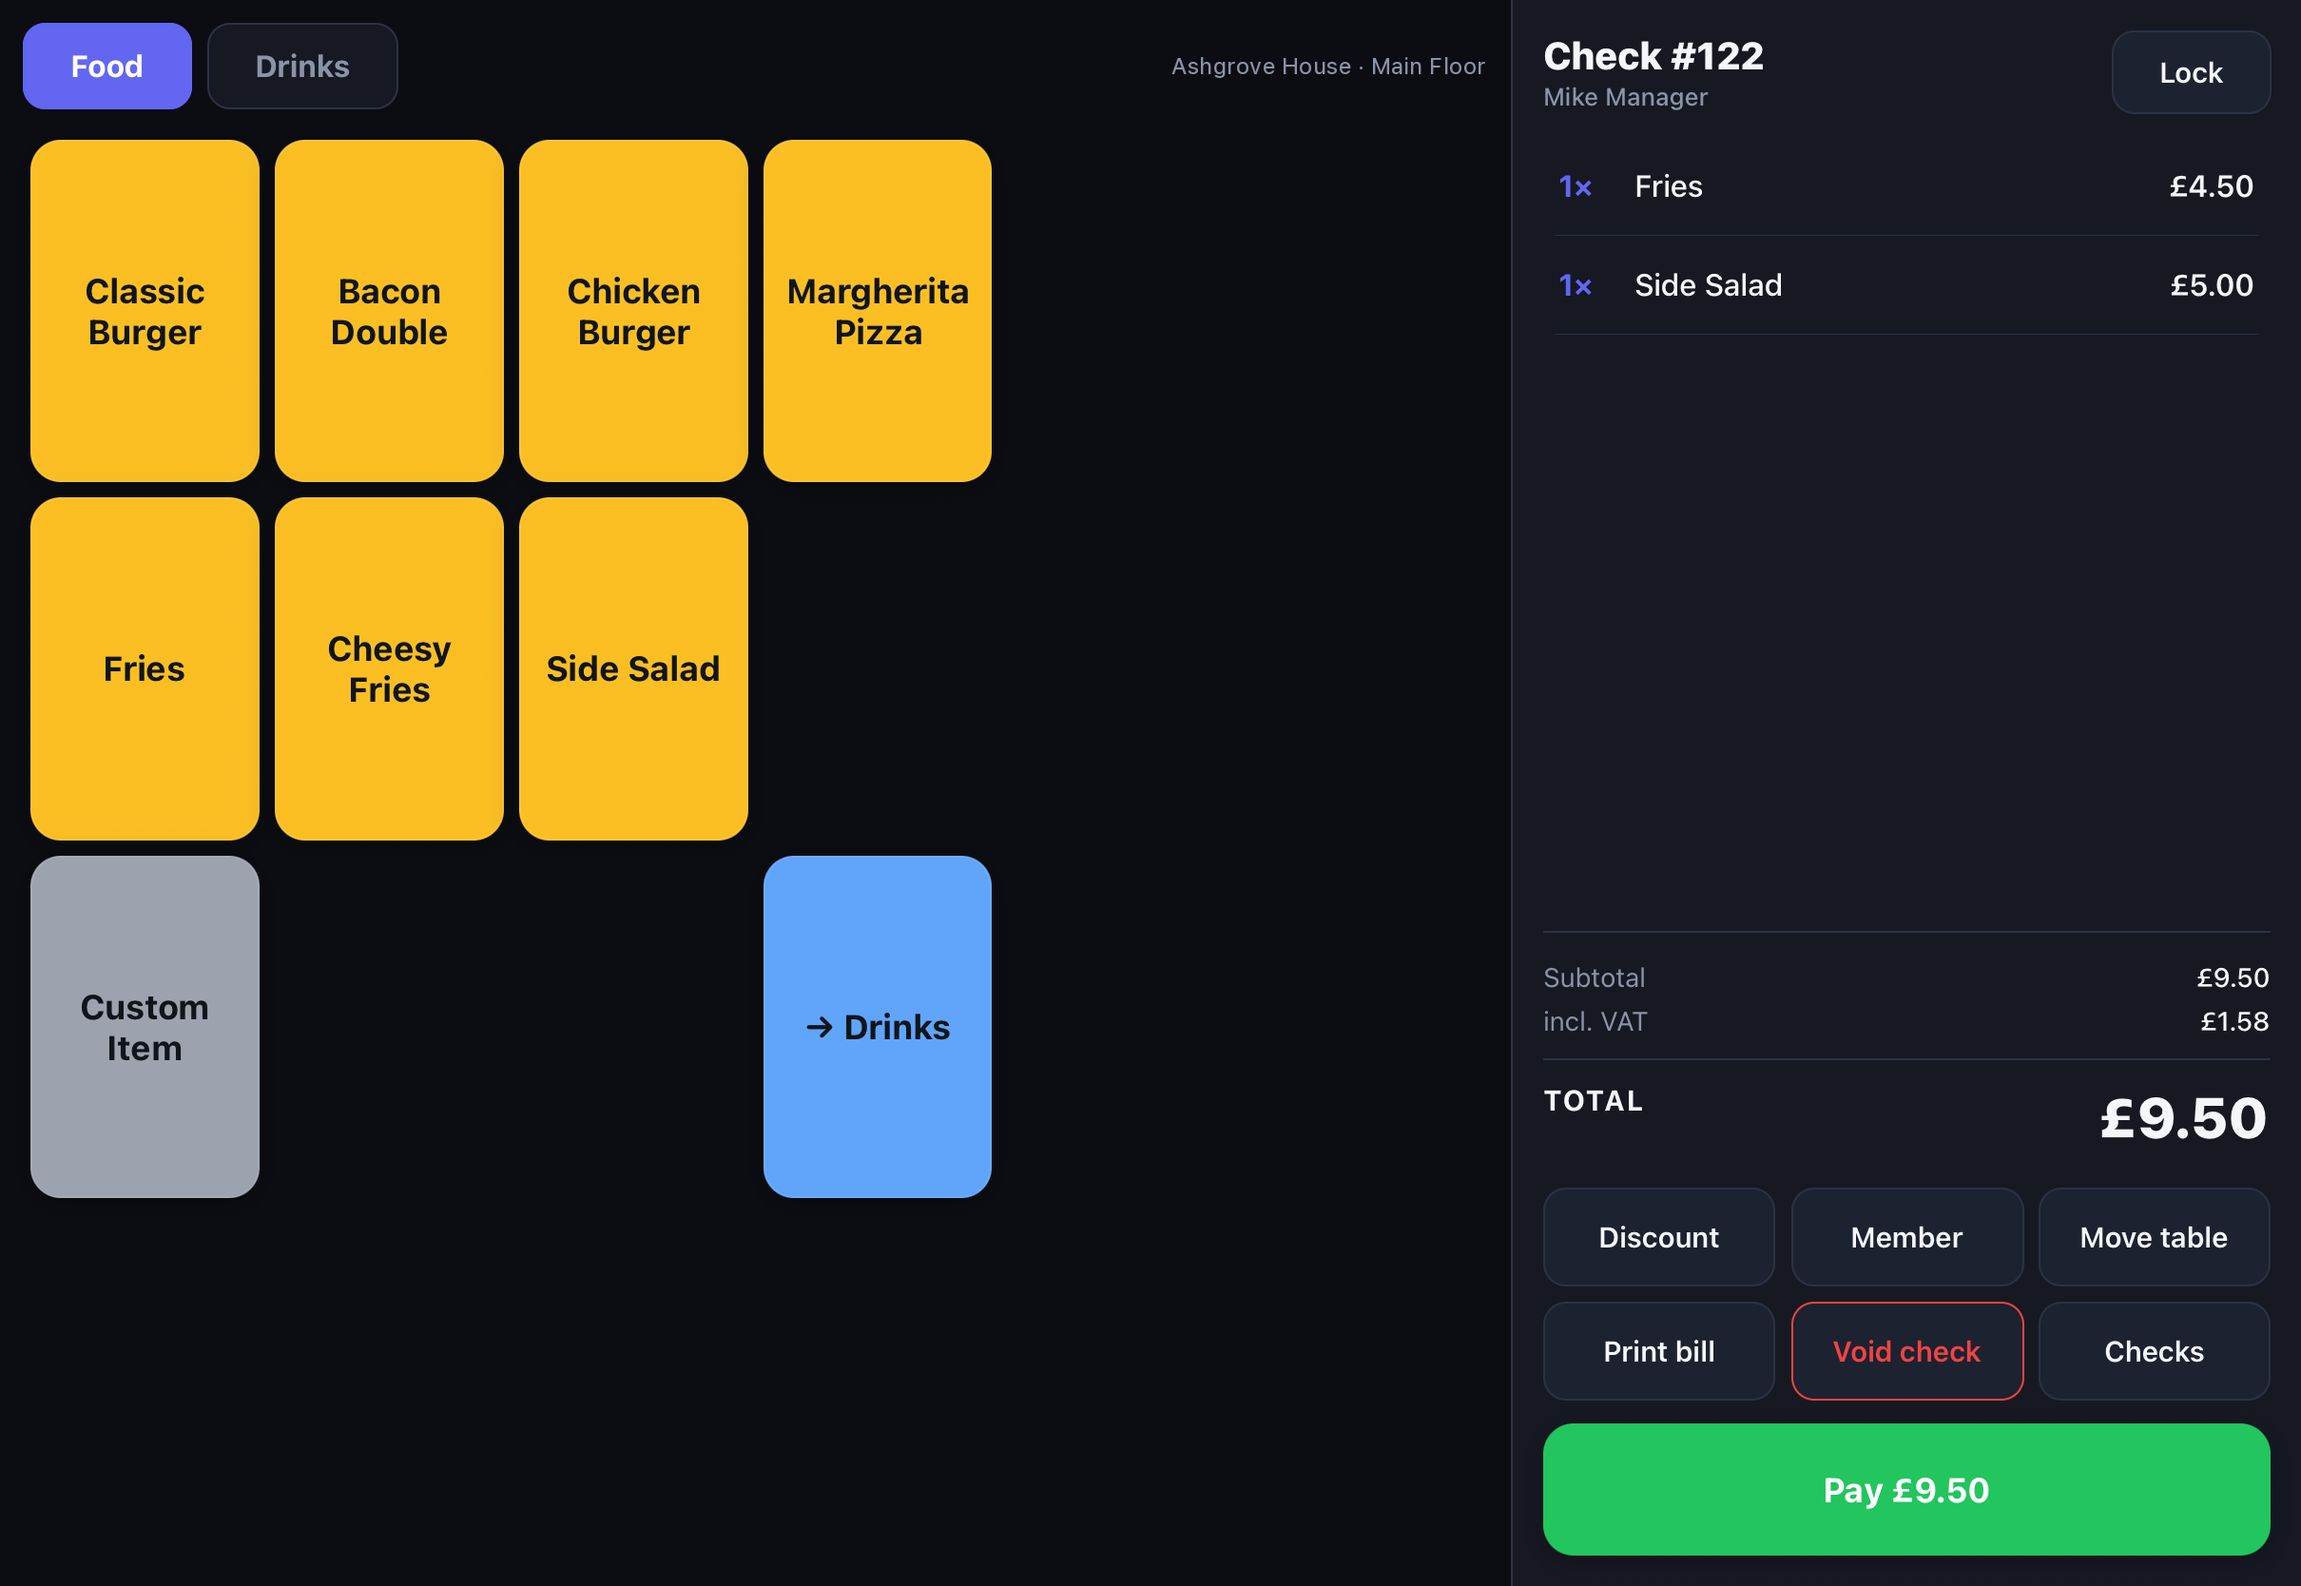
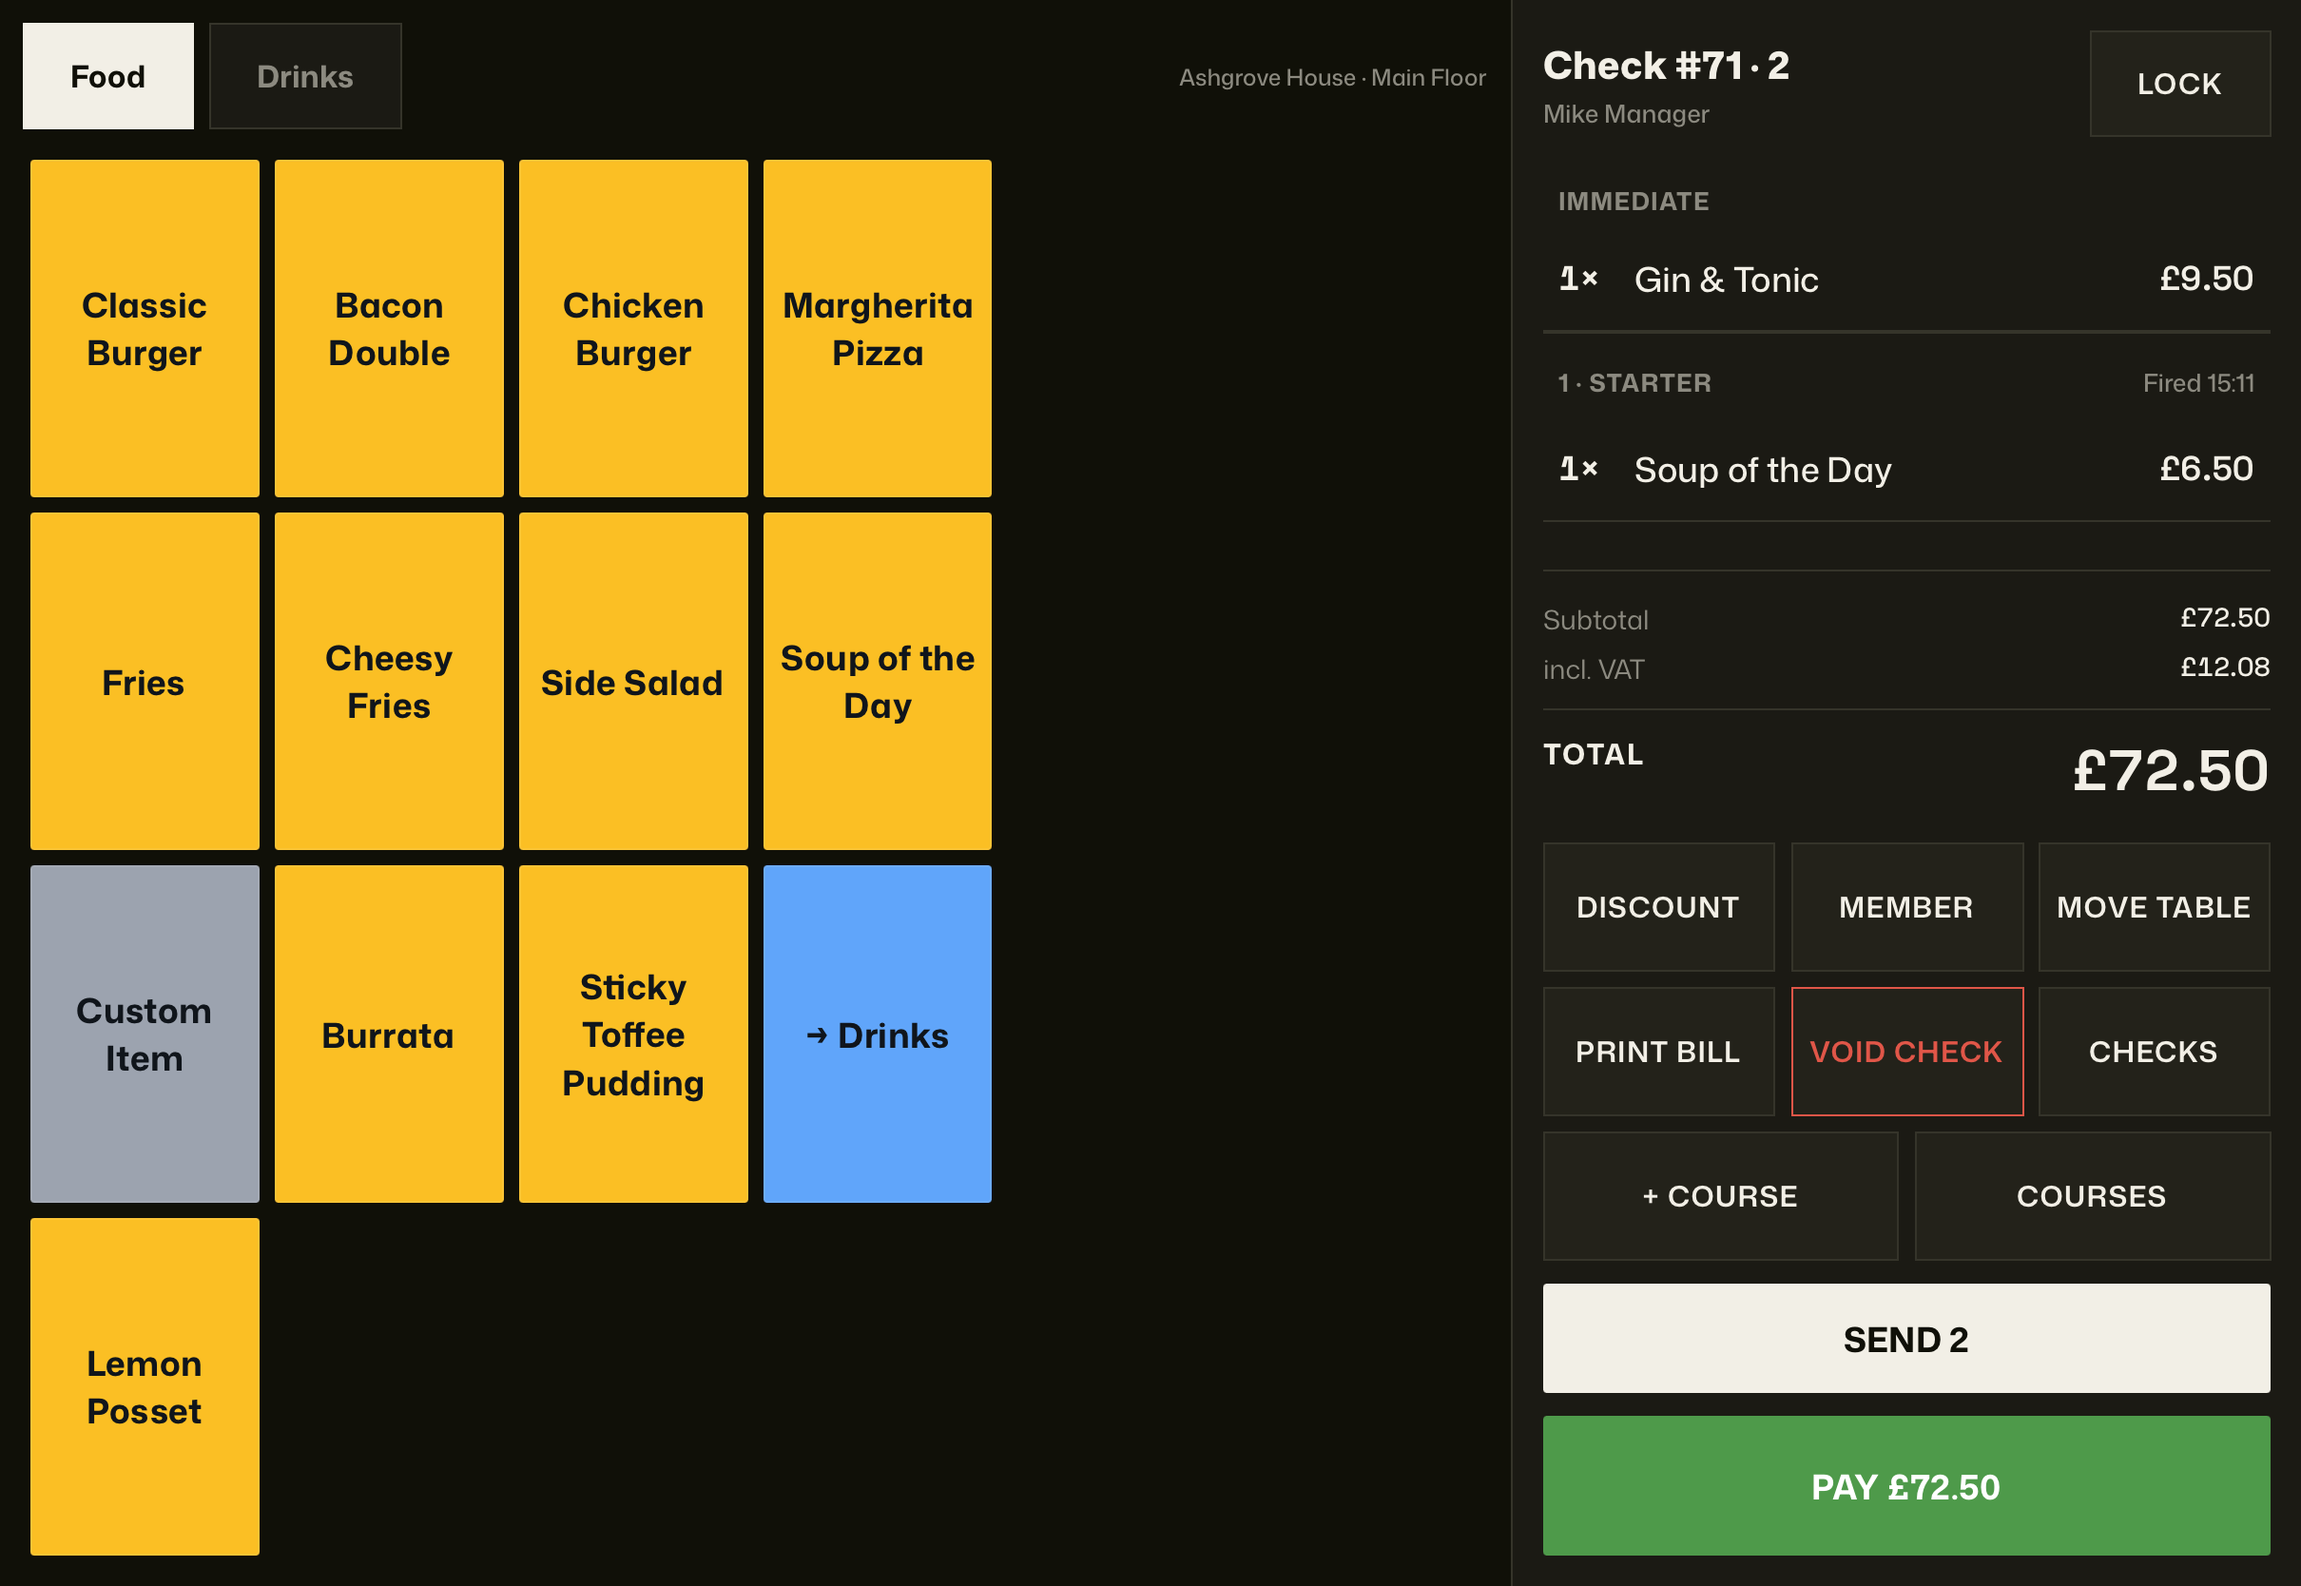
Hero: every surface in turn, light and dark where the app has both
The hero's picture now cycles through the admin, the door, front of house,
the kitchen display, the till and the member portal, each a real capture
from the demo club. Where the app has two themes the dark capture wipes
across the light one; the kitchen display and till are dark by design and
the portal light by design, so they show as they are. One 16:10 frame
throughout, so the hero never changes height; tabs to jump, hover to pause,
nothing moves under reduced motion.

New captures: the till retaken in the iPad simulator on the current build
(the old one was the 14 October design), front of house in day and dark
with nine members in, and the door in dark.

diff --git a/src/app/hero-screens.tsx b/src/app/hero-screens.tsx
@@ -1,0 +1,171 @@
+"use client";
+
+import { useEffect, useState } from "react";
+
+// The hero's picture: every surface of synapse in turn, each a real capture
+// from the demo club. Where the app has both themes the dark capture wipes
+// across the light one; the kitchen display and the till are dark by design,
+// and the member portal is light by design, so those show as they are.
+//
+// The frame keeps one aspect ratio (16:10) across every slide so the hero
+// never changes height while it cycles. The till is an iPad capture (3:2),
+// so it sits on its own dark ground inside the same frame.
+
+type HeroScreen = {
+  key: string;
+  app: string;
+  title: string;
+  caption: string;
+  light?: string;
+  dark?: string;
+  alt: string;
+  /** "contain" letterboxes the capture on `ground` instead of filling the frame. */
+  fit?: "cover" | "contain";
+  ground?: string;
+};
+
+const SCREENS: HeroScreen[] = [
+  {
+    key: "admin",
+    app: "Admin",
+    title: "Tonight at Fernhollow Gardens",
+    caption: "38 covers booked, who is next to arrive, rooms let tonight. Light for the office, dark for the door.",
+    light: "/screenshots/dashboard.png",
+    dark: "/screenshots/dashboard-dark.png",
+    alt: "synapse admin dashboard, light and dark — tonight at Fernhollow Gardens: covers booked, next to arrive, rooms let",
+  },
+  {
+    key: "door",
+    app: "The door",
+    title: "Bookings as they arrive",
+    caption: "The evening as a timeline: who is due, who is seated, who is late, with the member's record a tap away.",
+    light: "/screenshots/bookings-door.png",
+    dark: "/screenshots/bookings-door-dark.png",
+    alt: "synapse bookings door view, light and dark — tonight's arrivals in order",
+  },
+  {
+    key: "foh",
+    app: "Front of house",
+    title: "Reception at Fernhollow",
+    caption: "Members checked in by pass, with access needs and notes on the screen before they reach the desk. Day and dark, plus a night mode.",
+    light: "/screenshots/foh-reception.png",
+    dark: "/screenshots/foh-reception-dark.png",
+    alt: "synapse front-of-house reception, day and dark — members arriving and checked in",
+  },
+  {
+    key: "kds",
+    app: "Kitchen display",
+    title: "The pass, mid-service",
+    caption: "Tickets by course with prep notes and timers. Dark by design, for a kitchen under service lighting.",
+    dark: "/screenshots/kds-expo.png",
+    alt: "synapse kitchen display at the pass — tickets by course with timers",
+  },
+  {
+    key: "till",
+    app: "Till",
+    title: "A check on the Main Floor",
+    caption: "The till on an iPad: courses, modifiers and the member's house account on one check. The same warm dark as the kitchen.",
+    dark: "/screenshots/till-order.png",
+    alt: "synapse till on an iPad — an open check with courses and modifiers",
+    fit: "contain",
+    ground: "#101008",
+  },
+  {
+    key: "portal",
+    app: "Member portal",
+    title: "A member booking a table",
+    caption: "Members apply, sign in by email code, book tables, rooms and events, and see their account. Desktop and phone.",
+    light: "/screenshots/portal-desktop-book-table.png",
+    alt: "synapse member portal on desktop — a member choosing a time to book a table",
+  },
+];
+
+const HOLD_MS = 7000;
+
+export function HeroScreens() {
+  const [active, setActive] = useState(0);
+  const [paused, setPaused] = useState(false);
+  const [reduced, setReduced] = useState(false);
+
+  useEffect(() => {
+    const mq = window.matchMedia("(prefers-reduced-motion: reduce)");
+    const sync = () => setReduced(mq.matches);
+    sync();
+    mq.addEventListener("change", sync);
+    return () => mq.removeEventListener("change", sync);
+  }, []);
+
+  useEffect(() => {
+    if (paused || reduced) return;
+    const t = window.setTimeout(() => setActive((i) => (i + 1) % SCREENS.length), HOLD_MS);
+    return () => window.clearTimeout(t);
+  }, [active, paused, reduced]);
+
+  const current = SCREENS[active];
+
+  return (
+    <div
+      className="hero-screens"
+      onMouseEnter={() => setPaused(true)}
+      onMouseLeave={() => setPaused(false)}
+      onFocus={() => setPaused(true)}
+      onBlur={() => setPaused(false)}
+    >
+      <figure className="overflow-hidden rounded-xl border border-[var(--border)] bg-[var(--surface-1)] shadow-sm">
+        <div className="relative" style={{ aspectRatio: "16 / 10" }} aria-live="polite">
+          {SCREENS.map((s, i) => {
+            const on = i === active;
+            // Mount the current slide and its neighbours so the next one is
+            // decoded before it fades in, without pulling every capture at once.
+            const near = on || i === (active + 1) % SCREENS.length || i === (active + SCREENS.length - 1) % SCREENS.length;
+            if (!near) return null;
+            const fit = s.fit === "contain" ? "object-contain" : "object-cover";
+            const base = s.light ?? s.dark!;
+            return (
+              <div
+                key={s.key}
+                className={`hero-slide absolute inset-0 ${on ? "hero-slide-on" : ""}`}
+                style={{ background: s.ground }}
+                aria-hidden={!on}
+              >
+                {/* eslint-disable-next-line @next/next/no-img-element */}
+                <img src={base} alt={on ? s.alt : ""} width={2880} height={1800} loading={i === 0 ? "eager" : "lazy"} className={`absolute inset-0 block h-full w-full ${fit}`} />
+                {s.light && s.dark && (
+                  <>
+                    {/* eslint-disable-next-line @next/next/no-img-element */}
+                    <img src={s.dark} alt="" aria-hidden width={2880} height={1800} loading={i === 0 ? "eager" : "lazy"} className={`theme-wipe-dark absolute inset-0 block h-full w-full ${fit}`} />
+                    <span className="theme-wipe-line absolute inset-y-0 w-px bg-[var(--accent)]" aria-hidden />
+                  </>
+                )}
+              </div>
+            );
+          })}
+        </div>
+      </figure>
+
+      <div className="mt-3 flex flex-wrap gap-1.5" role="tablist" aria-label="Surfaces">
+        {SCREENS.map((s, i) => (
+          <button
+            key={s.key}
+            type="button"
+            role="tab"
+            aria-selected={i === active}
+            onClick={() => setActive(i)}
+            className={`hero-tab rounded-full border px-3 py-1 text-xs font-medium transition-colors ${
+              i === active
+                ? "border-[var(--brand)] bg-[var(--brand)] text-white"
+                : "border-[var(--border)] bg-[var(--surface-1)] text-[var(--muted)] hover:border-[var(--brand)] hover:text-[var(--ink)]"
+            }`}
+          >
+            {s.app}
+            {i === active && !paused && !reduced && <span className="hero-tab-bar" aria-hidden />}
+          </button>
+        ))}
+      </div>
+
+      <p className="mt-3 min-h-[3.75rem] text-sm text-[var(--muted)]">
+        <span className="font-medium text-[var(--ink)]">{current.title}.</span> {current.caption}
+      </p>
+    </div>
+  );
+}

diff --git a/src/app/page.tsx b/src/app/page.tsx
@@ -7,6 +7,7 @@
 import { DemoModal } from "./demo-modal";
 import { VenueConfigurator } from "./venue-configurator";
 import { Reveal } from "./reveal";
+import { HeroScreens } from "./hero-screens";
 import { HeroNetwork, SyncFlow, FloorPlanLive, TillLive, Frame } from "./anim";
 import { ProcurementFlow, LedgerFlow } from "./backoffice";
 import { SystemMap } from "./sysmap";
@@ -616,12 +617,8 @@ export default function Home() {
           </div>
           <div className="lg:col-span-7">
             <Reveal>
-              <ThemeWipe />
+              <HeroScreens />
             </Reveal>
-            <p className="mt-3 text-sm text-[var(--muted)]">
-              The admin on a Monday evening at Fernhollow Gardens, a demo club: 38 covers booked, who is
-              next to arrive, rooms let tonight. Light for the office, dark for the door, one screen.
-            </p>
           </div>
         </div>
       </section>
@@ -1627,23 +1624,6 @@ function Shot({ src, alt, w, h }: { src: string; alt: string; w: number; h: numb
 
 // Tablet bezel for the iPad till shots — the app is landscape-locked, so the
 // frame is landscape too, with a camera dot on the long edge like a real iPad.
-// The hero's picture: the same dashboard captured light and dark, the dark one
-// wiped across the light one by a slow CSS animation (static under reduced
-// motion). Both are real screens from the demo club.
-function ThemeWipe() {
-  return (
-    <figure className="theme-wipe overflow-hidden rounded-xl border border-[var(--border)] bg-[var(--surface-1)] shadow-sm">
-      <div className="relative" style={{ aspectRatio: "2880 / 1800" }}>
-        {/* eslint-disable-next-line @next/next/no-img-element */}
-        <img src="/screenshots/dashboard.png" alt="synapse admin, light — tonight at Fernhollow Gardens: covers booked, next to arrive, rooms let" width={2880} height={1800} className="absolute inset-0 block h-full w-full" />
-        {/* eslint-disable-next-line @next/next/no-img-element */}
-        <img src="/screenshots/dashboard-dark.png" alt="" aria-hidden width={2880} height={1800} className="theme-wipe-dark absolute inset-0 block h-full w-full" />
-        <span className="theme-wipe-line absolute inset-y-0 w-px bg-[var(--accent)]" aria-hidden />
-      </div>
-    </figure>
-  );
-}
-
 // Phone bezel for member-portal shots, captured at 375 × 812 on a 2× display.
 function PhoneShot({ src, alt, w, h }: { src: string; alt: string; w: number; h: number }) {
   return (

diff --git a/src/app/globals.css b/src/app/globals.css
@@ -269,14 +269,22 @@ th,
   .sysmap .flow { display: none; }
 }
 
-/* Hero: the dark capture wipes across the light one. clip-path and left are
-   cheap to animate here (one image, no layout), and the wipe holds still under
-   reduced motion. */
+/* Hero: one surface at a time, crossfading. On slides that have both themes the
+   dark capture wipes across the light one; the wipe restarts each time a slide
+   becomes active (the animation is only on .hero-slide-on). clip-path and left
+   are cheap to animate (one image, no layout). Under reduced motion nothing
+   moves: the wipe holds at 58% and the slides only change by the tabs. */
+.hero-slide { opacity: 0; transition: opacity 700ms ease; }
+.hero-slide-on { opacity: 1; }
 .theme-wipe-dark { clip-path: inset(0 0 0 58%); }
 .theme-wipe-line { left: 58%; box-shadow: 0 0 22px 4px rgba(155, 77, 255, 0.7); }
+.hero-tab { position: relative; overflow: hidden; }
+.hero-tab-bar { position: absolute; left: 0; bottom: 0; height: 2px; width: 100%; background: rgba(255, 255, 255, 0.55); transform-origin: left; transform: scaleX(0); }
 @media (prefers-reduced-motion: no-preference) {
-  .theme-wipe-dark { animation: theme-wipe-clip 14s ease-in-out infinite alternate; }
-  .theme-wipe-line { animation: theme-wipe-left 14s ease-in-out infinite alternate; }
+  .hero-slide-on .theme-wipe-dark { animation: theme-wipe-clip 6s ease-in-out forwards; }
+  .hero-slide-on .theme-wipe-line { animation: theme-wipe-left 6s ease-in-out forwards; }
+  .hero-tab-bar { animation: hero-tab-fill 7s linear forwards; }
 }
-@keyframes theme-wipe-clip { from { clip-path: inset(0 0 0 72%); } to { clip-path: inset(0 0 0 38%); } }
-@keyframes theme-wipe-left { from { left: 72%; } to { left: 38%; } }
+@keyframes theme-wipe-clip { from { clip-path: inset(0 0 0 76%); } to { clip-path: inset(0 0 0 36%); } }
+@keyframes theme-wipe-left { from { left: 76%; } to { left: 36%; } }
+@keyframes hero-tab-fill { from { transform: scaleX(0); } to { transform: scaleX(1); } }
